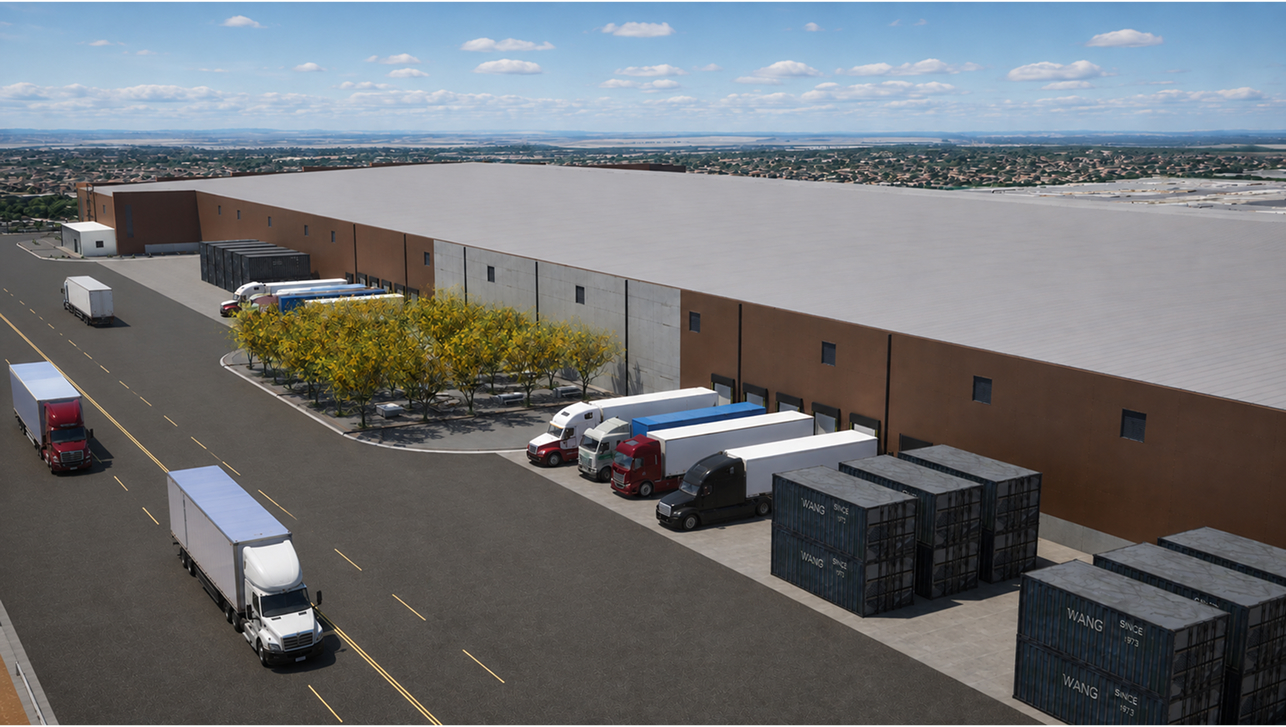
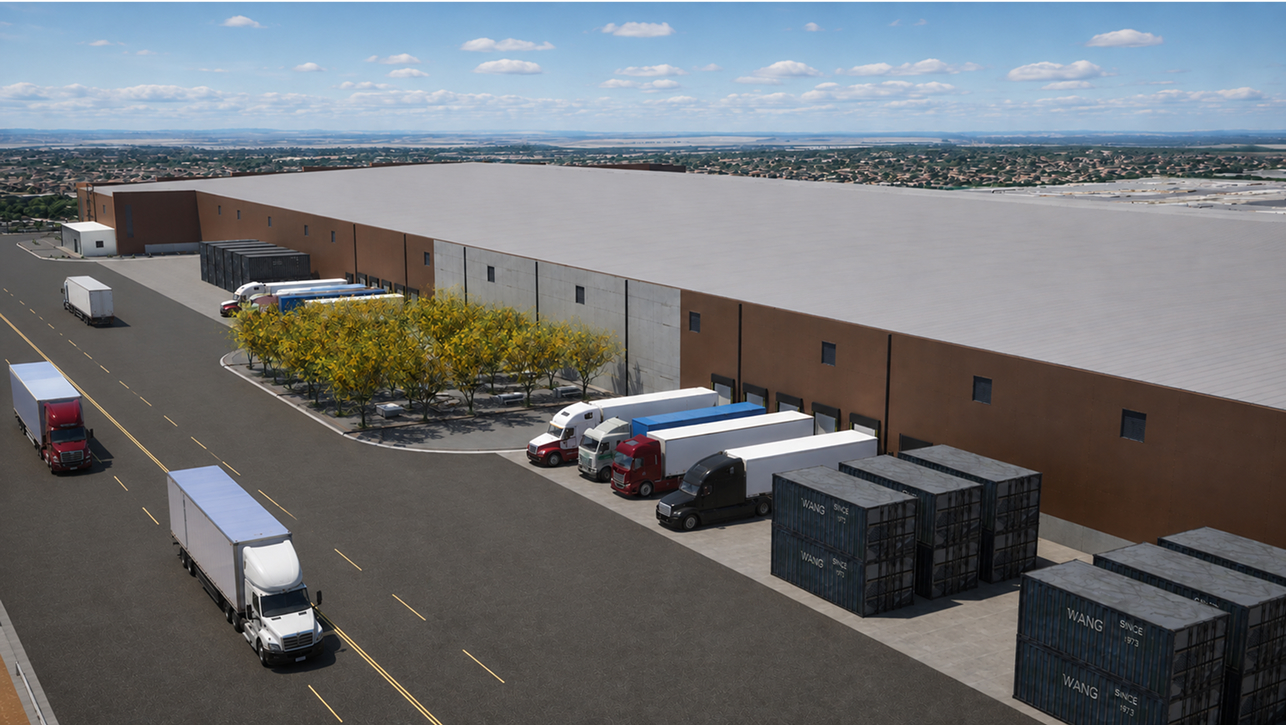
Cambios en tamaños para responsive

diff --git a/src/pages/components/hablemos.jsx b/src/pages/components/hablemos.jsx
@@ -62,10 +62,10 @@ export default function HablemosDeTuProyecto() {
   };
 
   const inputClass =
-    "w-full h-[80px] pl-[20px] pr-[15px] rounded-[15px] border border-white/80 bg-blue paragraph text-white font-light placeholder:text-white outline-none focus:border-naranja transition-colors";
+    "w-full h-[60px] md:h-[80px] pl-[20px] pr-[15px] rounded-[15px] border border-white/80 bg-blue paragraph text-white font-light placeholder:text-white outline-none focus:border-naranja transition-colors";
 
   const textareaClass =
-    "w-full min-h-[170px] sm:min-h-[80px] pr-[20px] pl-[10px] py-[10px] rounded-[15px] border border-white/80 bg-blue paragraph text-white font-light placeholder:text-white outline-none focus:border-naranja transition-colors resize-none";
+    "w-full min-h-[150px] sm:min-h-[80px] pr-[20px] pl-[10px] py-[10px] rounded-[15px] border border-white/80 bg-blue paragraph text-white font-light placeholder:text-white outline-none focus:border-naranja transition-colors resize-none";
 
   // Animaciones
   const [contentRef, isContentVisible] = useInView();
@@ -78,7 +78,7 @@ export default function HablemosDeTuProyecto() {
       className="flex flex-col w-full justify-center items-center bg-blue-overlay"
     >
       {/* medio banner */}
-      <div className="relative w-full h-[50svh] px-[44px] sm:px-[90px] py-[50px] sm:py-[60px]">
+      <div className="relative w-full h-svh md:h-[50svh] px-[44px] sm:px-[90px] py-[50px] sm:py-[60px]">
         {/* image y overlay */}
         <div className="absolute top-0 left-0 w-full h-full">
           <div className="relative w-full h-full">
@@ -90,7 +90,7 @@ export default function HablemosDeTuProyecto() {
             />
 
             {/* overlay */}
-            <div className="absolute w-full h-full bg-linear-to-bl from-blue-overlay/70 via-70% via-blue-overlay/95 to-blue-overlay" />
+            <div className="absolute w-full h-full bg-linear-30 from-blue-overlay via-blue-overlay via-50% via-blue-overlay/80 to-blue-overlay/20" />
           </div>
         </div>
 
@@ -126,17 +126,17 @@ export default function HablemosDeTuProyecto() {
         </div>
       </div>
 
-      <div className="flex flex-col w-full max-w-[1150px] gap-[20px] px-[44px] py-[60px] sm:p-[60px]">
+      <div className="flex flex-col w-full max-w-[1150px] gap-[15px] px-[44px] py-[60px] sm:p-[60px]">
         {/* Header */}
         <div
           ref={headerRef}
-          className={`flex flex-col flex-col-reverse lg:flex-row justify-between items-center gap-[20px] lg:gap-[40px] reveal ${isHeaderVisible ? "is-visible" : ""}`}
+          className={`flex flex-col flex-col-reverse lg:flex-row justify-between items-center gap-[15px] md:gap-[20px] lg:gap-[40px] reveal ${isHeaderVisible ? "is-visible" : ""}`}
         >
-          <div className="flex flex-col w-full gap-[20px]">
-            <h2 className="font-abhaya title max-lg:text-center text-white uppercase">
+          <div className="flex flex-col w-full gap-[15px] md:gap-[20px]">
+            <h2 className="font-abhaya title text-white uppercase">
               Hablemos de tu proyecto.
             </h2>
-            <p className="paragraph max-lg:text-center font-light text-white">
+            <p className="paragraph font-light text-white">
               <span className="font-semibold text-white">
                 Cuéntanos qué necesita tu operación:
               </span>{" "}
@@ -149,7 +149,7 @@ export default function HablemosDeTuProyecto() {
             <img
               src={trueLogo}
               alt=""
-              className="w-[34px] sm:w-[74px] sm:h-[106px]"
+              className="w-[26px] sm:w-[74px] sm:h-[106px]"
             />
           </div>
         </div>
@@ -157,22 +157,25 @@ export default function HablemosDeTuProyecto() {
         {/* Card de contacto */}
         <div
           ref={cardRef}
-          className={`flex flex-col gap-[30px] sm:gap-[10px] p-[20px] rounded-[20px] bg-white/10 reveal-scale ${isCardVisible ? "is-visible" : ""}`}
+          className={`flex flex-col gap-[10px] sm:gap-[10px] p-[15px] md:p-[20px] rounded-[20px] bg-white/10 reveal-scale ${isCardVisible ? "is-visible" : ""}`}
         >
-          <h3 className="font-abhaya subtitle text-white uppercase">
+          <h3 className="font-abhaya max-md:text-center subtitle text-white uppercase">
             Ricardo Villarreal
           </h3>
-          <p className="font-semibold paragraph text-white">
+          <p className="font-semibold max-md:text-center paragraph text-white">
             Socio, True Developments
           </p>
 
           {/* Datos de contacto */}
-          <div className="grid grid-cols-1 sm:grid-cols-2 lg:grid-cols-4 gap-y-[30px] gap-x-[80px] lg:gap-[14px]">
+          <div className="grid grid-cols-1 sm:grid-cols-2 lg:grid-cols-4 gap-y-[20px] md:gap-y-[30px] gap-x-[80px] lg:gap-[14px]">
             {contactInfo.map((item) => (
-              <div key={item.id} className="flex flex-col gap-[20px]">
-                <div className="flex items-center justify-center h-[60px] gap-[10px] px-[16px] py-[12px] rounded-[10px] border border-white bg-blue">
+              <div
+                key={item.id}
+                className="flex flex-col gap-[12px] md:gap-[20px]"
+              >
+                <div className="flex items-center justify-center h-[60px] gap-[10px] px-[16px] py-[5px]  sm:py-[12px] rounded-[10px] border border-white bg-blue">
                   <img src={item.icon} alt="" className="h-[20px]" />
-                  <span className="font-inter text-[14px] text-white/90 truncate">
+                  <span className="font-inter boton text-white/90 truncate">
                     {item.label}
                   </span>
                 </div>
@@ -182,7 +185,7 @@ export default function HablemosDeTuProyecto() {
                   href={item.href}
                   target="_blank"
                   rel="noopener noreferrer"
-                  className="self-center flex w-fit items-center justify-center px-[16px] py-[11px] rounded-full text-[16px] font-semibold bg-cream text-blue"
+                  className="self-center flex w-fit items-center justify-center px-[16px] py-[11px] rounded-full boton font-semibold bg-cream text-blue"
                 >
                   {item.buttonText}
                 </a>
@@ -195,10 +198,10 @@ export default function HablemosDeTuProyecto() {
         <form
           ref={formRef}
           onSubmit={handleSubmit}
-          className={`flex flex-col gap-[30px] lg:gap-[50px] reveal ${isFormVisible ? "is-visible" : ""}`}
+          className={`flex flex-col gap-[10px] md:gap-[30px] lg:gap-[50px] reveal ${isFormVisible ? "is-visible" : ""}`}
         >
           {/* Nombre completo / Empresa */}
-          <div className="grid grid-cols-1 lg:grid-cols-2 gap-[30px] lg:gap-[17px]">
+          <div className="grid grid-cols-1 lg:grid-cols-2 gap-[10px] md:gap-[30px] lg:gap-[17px]">
             <div className="flex flex-col gap-[10px]">
               <label className="font-inter font-bold paragraph text-white">
                 Nombre completo
@@ -227,7 +230,7 @@ export default function HablemosDeTuProyecto() {
           </div>
 
           {/* Correo / Teléfono */}
-          <div className="grid grid-cols-1 lg:grid-cols-2 gap-[30px] lg:gap-[17px]">
+          <div className="grid grid-cols-1 lg:grid-cols-2 gap-[10px] md:gap-[30px] lg:gap-[17px]">
             <div className="flex flex-col gap-[10px]">
               <label className="font-inter font-bold paragraph text-white">
                 Correo electrónico

diff --git a/src/pages/components/hero.jsx b/src/pages/components/hero.jsx
@@ -6,7 +6,7 @@ export default function Hero() {
   return (
     <div
       id="hero"
-      className="relative flex flex-col justify-start items-center w-full min-h-svh lg:min-h-svh"
+      className="relative flex flex-col justify-start items-center w-full"
     >
       {/* Overlay */}
       <div className="absolute z-10 inset-0 w-full h-full bg-[#191F35]/80" />
@@ -31,9 +31,9 @@ export default function Hero() {
       <Navbar />
 
       {/* Content */}
-      <div className="relative z-20 flex flex-col items-center w-full max-w-[1160px] h-full min-[660px]:px-[50px] lg:px-[60px] xl:px-0">
+      <div className="relative z-20 flex flex-col items-center w-full max-w-[1160px] h-svh min-[660px]:px-[50px] lg:px-[60px] xl:px-0">
         {/* Texto */}
-        <div className="flex flex-col w-full h-full gap-[30px] sm:gap-[90px] px-[44px] min-[660px]:px-[30px] pt-[90px] pb-[20px] min-[660px]:pt-[17vh]">
+        <div className="flex flex-col w-full h-full gap-[15px] sm:gap-[90px] px-[44px] min-[660px]:px-[30px] pt-[10vh] pb-[20px] min-[660px]:pt-[17vh]">
           {/* Logo */}
           <div className="relative w-full max-w-[267px] sm:w-[335px] h-[60px] animate-hero-1">
             <img
@@ -43,7 +43,7 @@ export default function Hero() {
             />
           </div>
 
-          <div className="flex flex-col gap-[30px] animate-hero-2">
+          <div className="flex flex-col gap-[15px] animate-hero-2">
             {/* Titulo */}
             <h1 className=" title font-abhaya uppercase">
               True Ciénega <br /> Industrial Park
@@ -56,7 +56,7 @@ export default function Hero() {
             </h2>
 
             {/* Description */}
-            <p className="max-w-[680px] lg:max-w-[1100px] text-[20px] font-light leading-[125%]">
+            <p className="max-w-[680px] lg:max-w-[1100px] text-[17px] md:text-[20px] font-light leading-[125%]">
               <strong className="font-bold">Parque Industrial Clase A </strong>
               de 15 hectáreas sobre la Autopista{" "}
               <span className="whitespace-nowrap">Monterrey-Nuevo Laredo</span>
@@ -70,7 +70,7 @@ export default function Hero() {
           </div>
 
           {/* Buttons */}
-          <div className="flex flex-col sm:flex-row gap-[30px] min-[660px]:gap-[40px] sm:gap-[44px] animate-hero-3">
+          <div className="flex flex-col sm:flex-row gap-[15px] min-[660px]:gap-[40px] sm:gap-[44px] animate-hero-3">
             <button className="boton px-[20px] pt-[11px] pb-[12px] rounded-full font-medium bg-orange hover:cursor-pointer">
               Quiero comprar o rentar <br className="sm:hidden" /> una Nave
               Industrial a la medida

diff --git a/src/pages/components/documentamos.jsx b/src/pages/components/documentamos.jsx
@@ -65,7 +65,7 @@ export default function Documentamos() {
         </div>
 
         {/* Grid de etapas */}
-        <div className="grid grid-cols-1 sm:grid-cols-2 lg:grid-cols-4 gap-[20px] w-full max-w-[1120px]">
+        <div className="grid grid-cols-2 lg:grid-cols-4 gap-x-[15px] gap-y-[10px] sm:gap-[20px] w-full max-w-[1120px]">
           {etapasData.map((etapa, index) => (
             <EtapaCard key={etapa.id} etapa={etapa} delay={index * 100} />
           ))}
@@ -73,13 +73,13 @@ export default function Documentamos() {
       </div>
 
       {/* Imagen medio banner */}
-      <div className="relative w-full h-[40svh]">
+      <div className="relative w-full h-[40svh] overflow-hidden">
         {/* overlay */}
         <div className="absolute z-10 w-full h-full bg-linear-to-t from-black/30 to-black" />
 
         <img
           src={banner}
-          alt=""
+          alt="Imagen de instalaciones de True"
           className="absolute w-full h-full object-cover"
         />
       </div>

diff --git a/src/components/etapa-card.jsx b/src/components/etapa-card.jsx
@@ -7,7 +7,7 @@ export default function EtapaCard({ etapa, delay }) {
     <div
       ref={ref}
       style={{ transitionDelay: `${delay}ms` }}
-      className={`flex flex-col min-h-[238px] justify-between items-center text-center gap-[15px] px-[15px] py-[20px] rounded-[40px] border border-cream/50 bg-cream/10 reveal-scale ${isVisible ? "is-visible" : ""}`}
+      className={`flex flex-col min-h-[238px] justify-between items-center text-center gap-[15px] px-[15px] py-[20px] rounded-[20px] sm:rounded-[40px] border-[1.5px] border-cream bg-cream/10 reveal-scale ${isVisible ? "is-visible" : ""}`}
     >
       <div className="flex flex-1 items-center justify-center size-[50px] rounded-full bg-black">
         <img src={etapa.icon} alt="Ícono de la etapa" className="size-[24px]" />

diff --git a/src/pages/components/especificaciones.jsx b/src/pages/components/especificaciones.jsx
@@ -71,7 +71,7 @@ export default function Especificaciones() {
       id="propuesta-de-valor"
       className="flex flex-col h-fit min-[1170px]:h-svh"
     >
-      <div className="relative flex h-svh min-[1170px]:flex-1 flex-col justify-center items-center w-full px-[30px] lg:px-0 py-[44px] gap-[26px] sm:gap-[20px] bg-brown/80">
+      <div className="relative flex min-h-svh min-[1170px]:flex-1 flex-col justify-center items-center w-full px-[30px] lg:px-0 py-[44px] gap-[26px] sm:gap-[20px] bg-brown/80">
         {/* Imagen de fondo */}
         <div className="absolute -z-10 inset-0 w-full h-full">
           <div className="relative w-full h-full">

diff --git a/src/pages/components/designed-certainty.jsx b/src/pages/components/designed-certainty.jsx
@@ -8,7 +8,7 @@ export default function DesignedForCertainty() {
   return (
     <div
       id="true-developments"
-      className="flex flex-col w-full h-svh justify-center items-center  bg-blue-overlay"
+      className="flex flex-col w-full min-h-svh justify-center items-center  bg-blue-overlay"
     >
       <div className="flex flex-col lg:flex-row w-full min-h-[50svh] justify-center max-lg:items-center max-w-[1280px] gap-[40px] lg:gap-[35px] px-[44px] sm:px-[90px] py-[60px]">
         {/* Columna izquierda */}

diff --git a/src/pages/components/naves.jsx b/src/pages/components/naves.jsx
@@ -209,7 +209,7 @@ export default function Naves() {
           </button>
         </div>
 
-        <div className="relative w-full h-[28svh] md:h-[50svh]">
+        <div className="relative w-full h-[28svh] md:h-[50svh] overflow-hidden">
           {/* linear gradient */}
           <div className="absolute z-10 w-full h-full inset-0 bg-linear-to-t from-blue-overlay/60 to-blue-overlay" />
           <img

diff --git a/src/pages/components/macrolotes.jsx b/src/pages/components/macrolotes.jsx
@@ -202,7 +202,7 @@ export default function Macrolotes() {
           </button>
         </div>
 
-        <div className="relative w-full h-[28svh] md:h-[50sv">
+        <div className="relative w-full h-[28svh] md:h-[50svh] overflow-hidden">
           {/* linear gradient */}
           <div className="absolute z-10 w-full h-full inset-0 bg-linear-to-t from-brown/60 to-brown" />
           <img

diff --git a/src/pages/home.jsx b/src/pages/home.jsx
@@ -16,7 +16,7 @@ import PopupRegistro from "../components/popup-registro/pop-up-registro";
 import { useState } from "react";
 
 export default function Home() {
-  const [isPopupOpen, setIsPopupOpen] = useState(true);
+  const [isPopupOpen, setIsPopupOpen] = useState(false);
   return (
     <main className="relative flex flex-col w-full">
       {/* botón whatsapp */}
